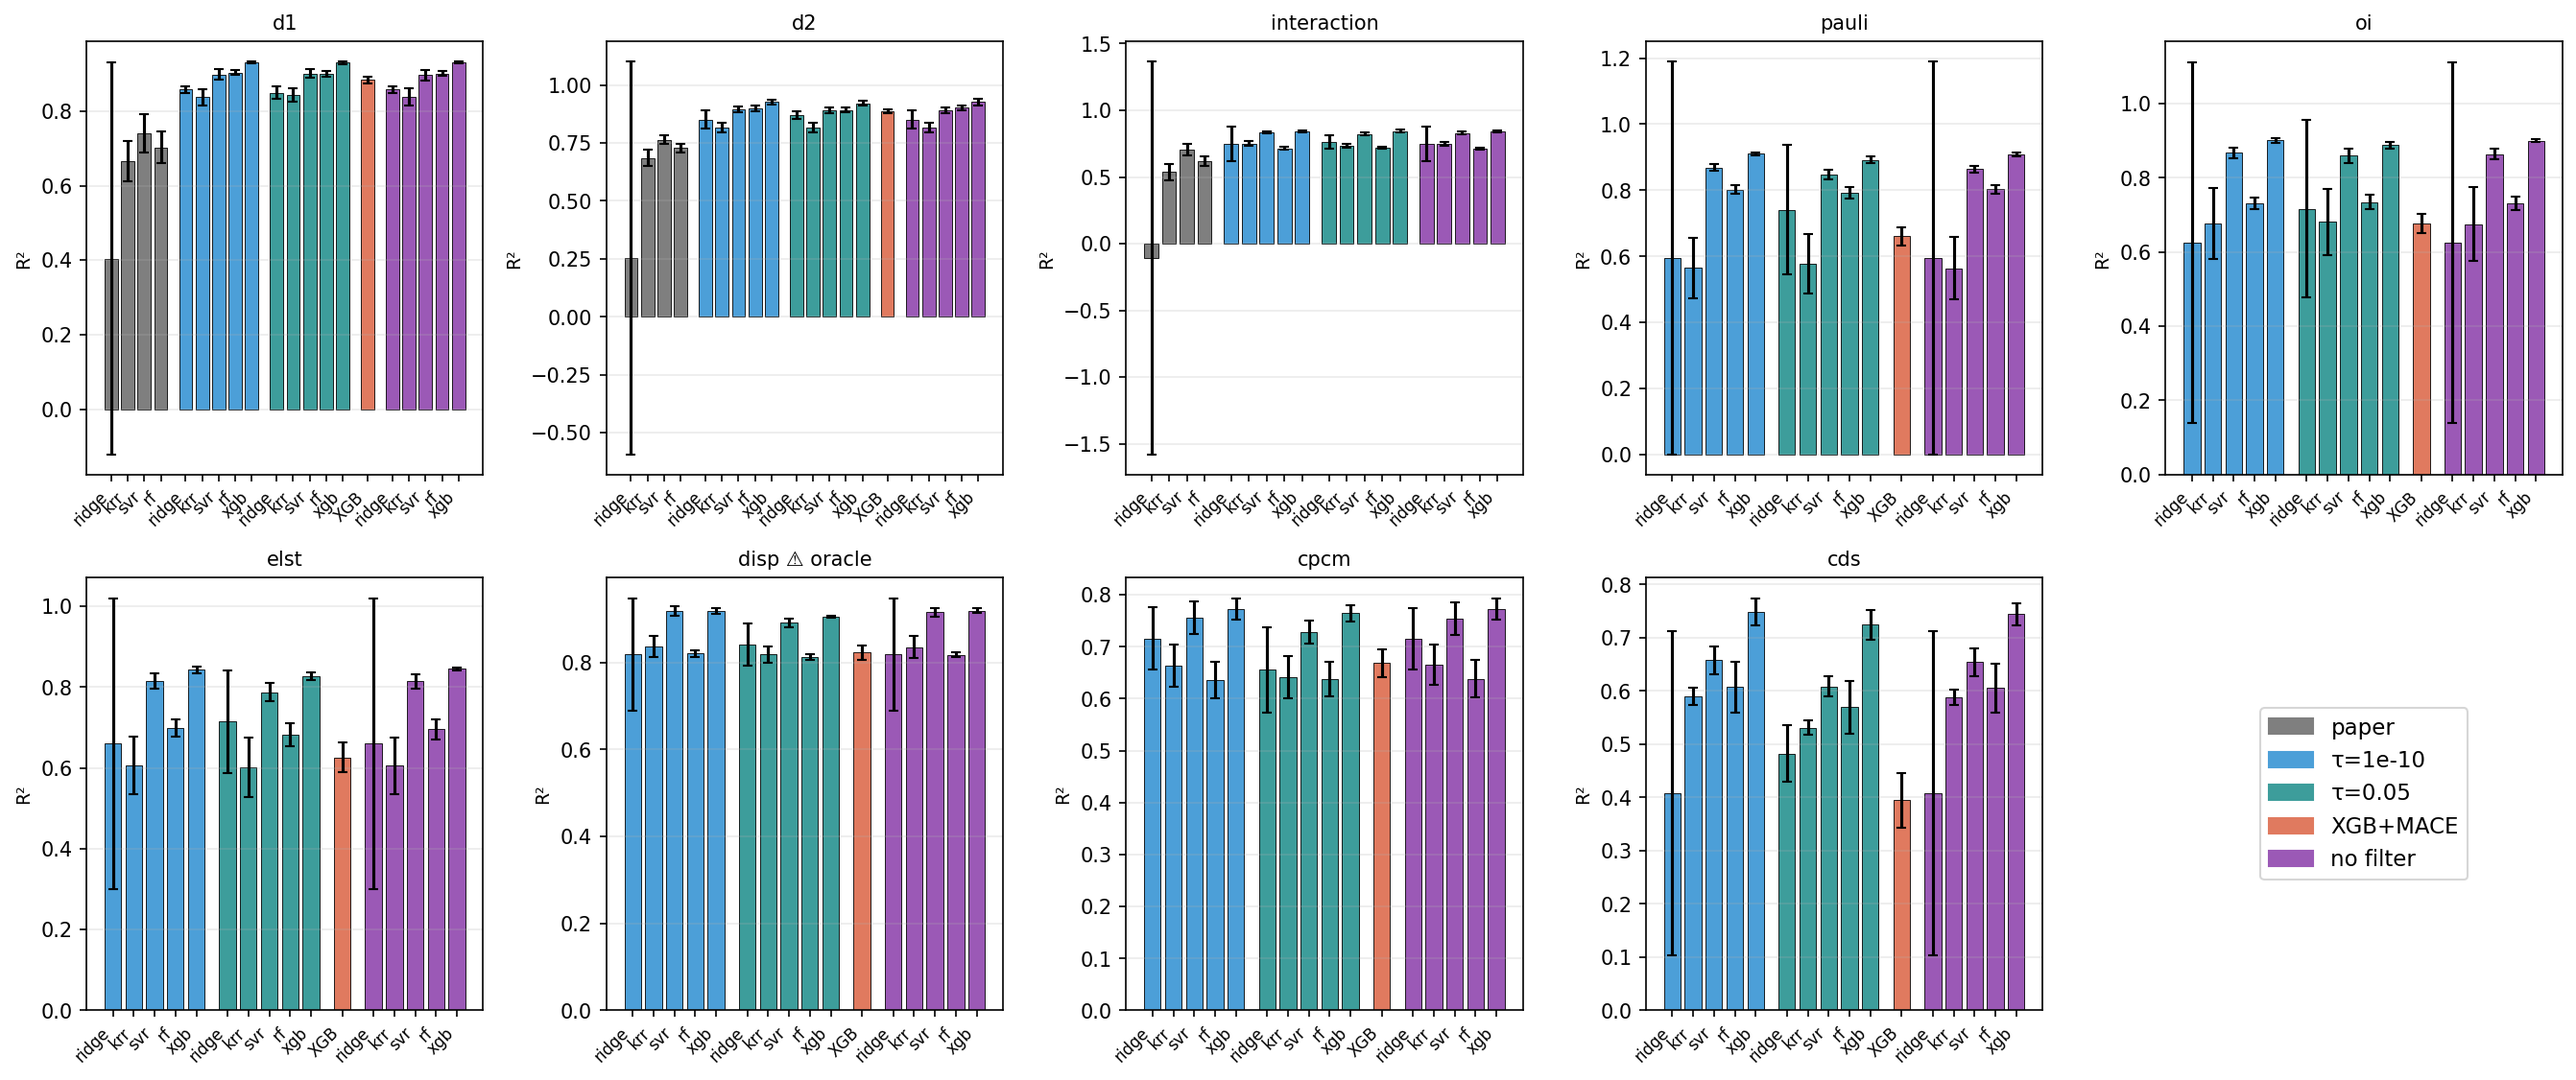
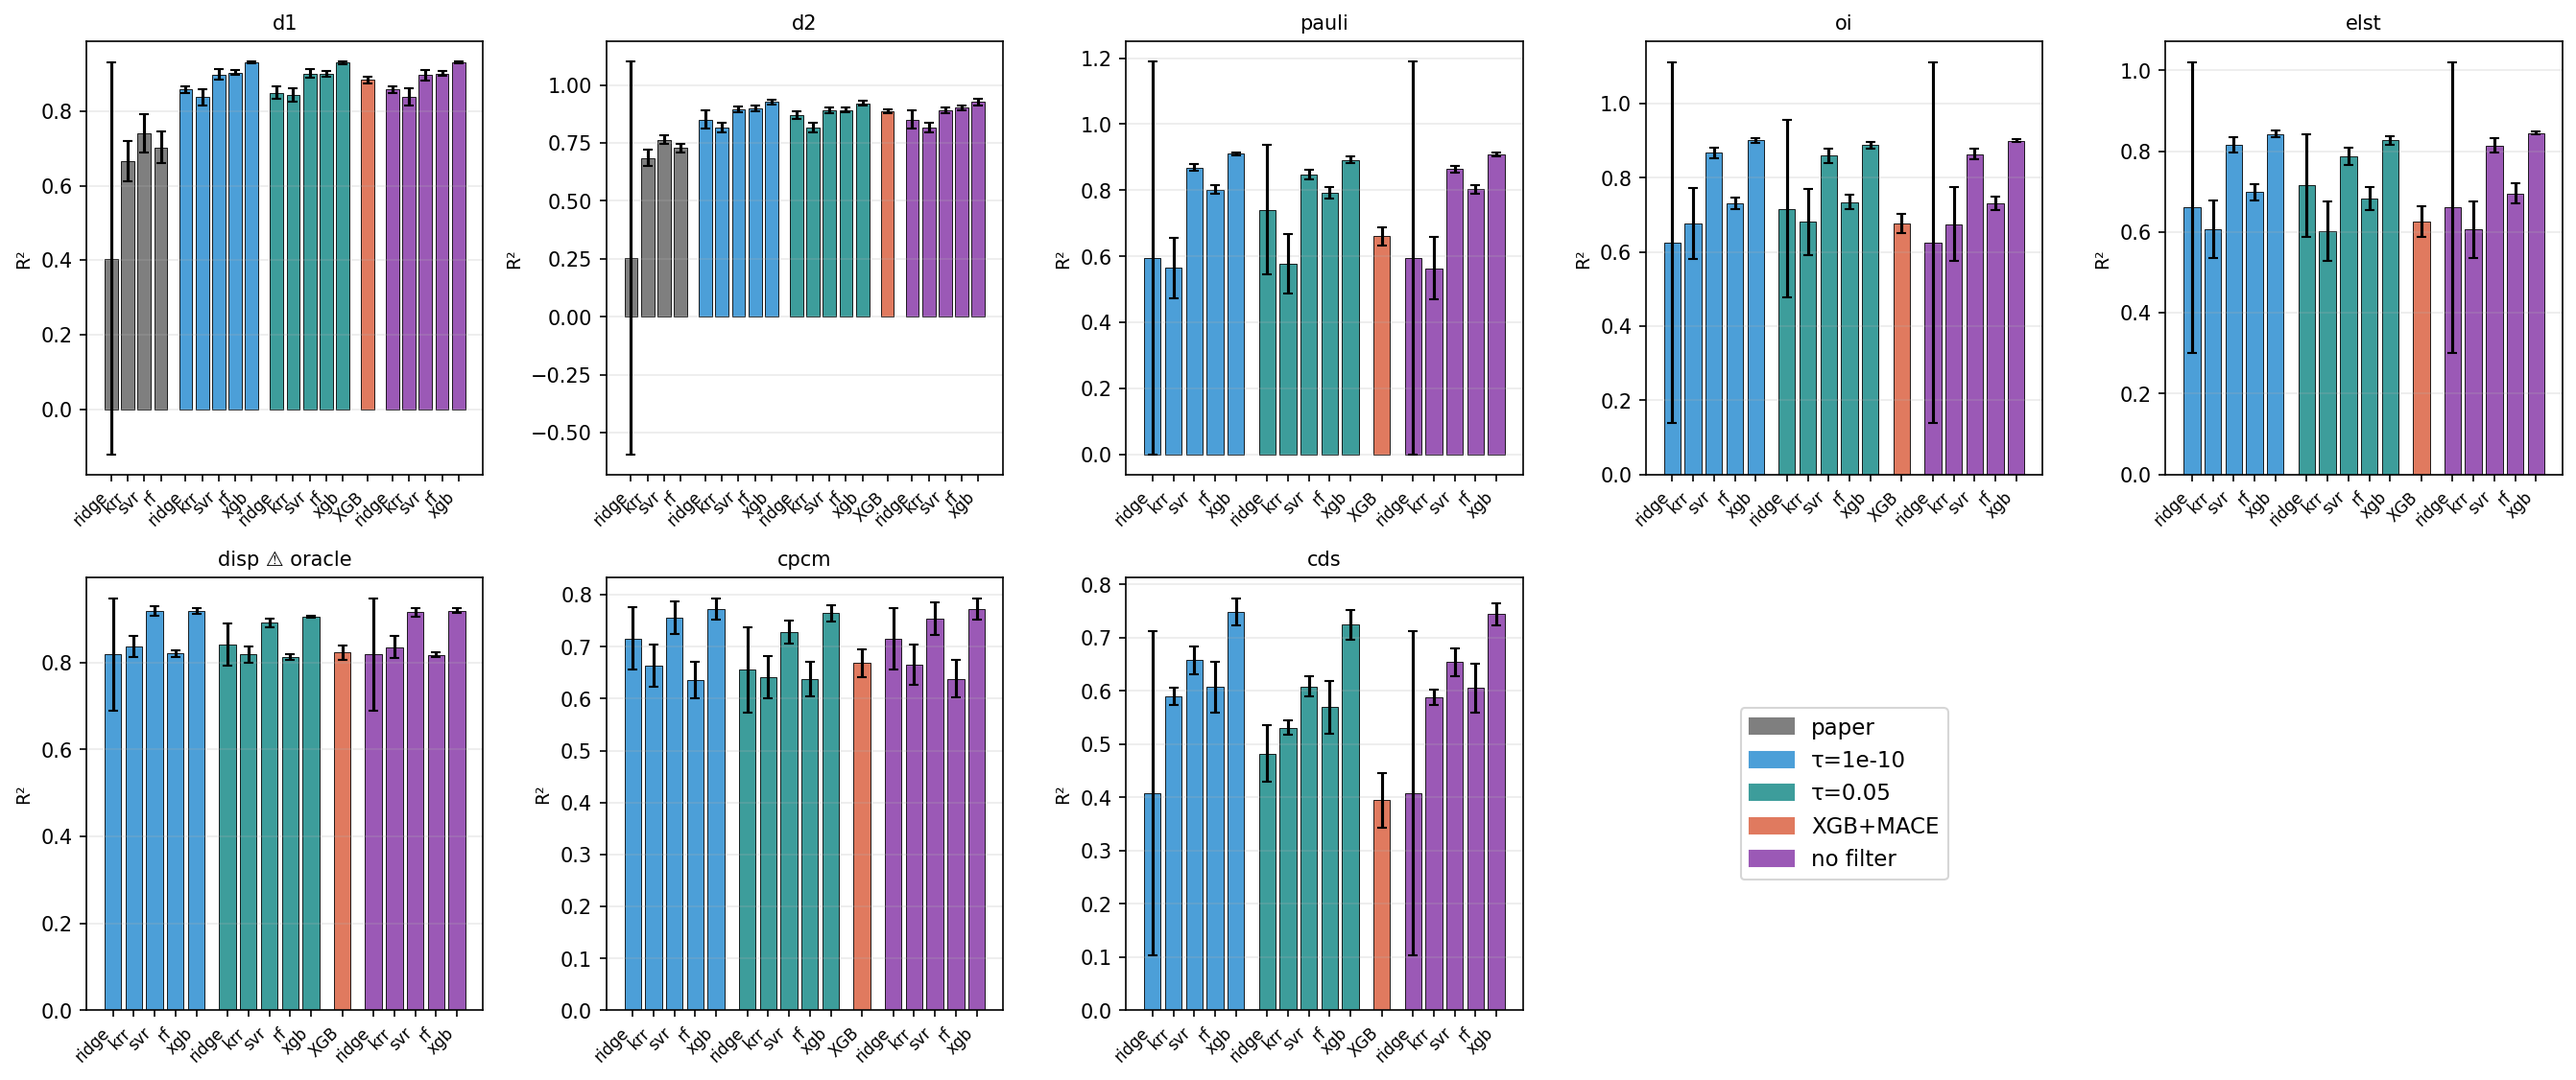
comparison_v3: drop interaction subplot for cross-phase consistency
Phase 4 (05_train_e3.py) hardcodes 8 targets (d1, d2 + 6 EDA channels)
and does not train interaction. Phase 2/3/5 (paper's ml_analysis.py)
auto-picked every _dft column including interaction_own_dft. Removing
interaction from the F2/F4/F5 canonical channel list keeps all phases
comparable — no partial/empty subplots.

diff --git a/analysis/bath1480_probe/experiments/scripts/08_aggregate_v3.py b/analysis/bath1480_probe/experiments/scripts/08_aggregate_v3.py
@@ -288,7 +288,10 @@ def main():
     print(f"records_all.csv: {len(records)} rows")
 
     d12 = ["d1", "d2"]
-    other = ["interaction", "pauli", "oi", "elst", "disp", "cpcm", "cds"]
+    # interaction dropped for consistency: Phase 4 (05_train_e3.py) hardcodes
+    # 8 targets and does not train interaction. Removing it from every subplot
+    # keeps all figures comparable across phases.
+    other = ["pauli", "oi", "elst", "disp", "cpcm", "cds"]
 
     filter_A = ["Phase 1 (paper)", "Phase 3 (τ=0.05)", "Phase 4 (XGB+MACE)"]
     exclude_A = [("Phase 3 (τ=0.05)", "xgb")]
